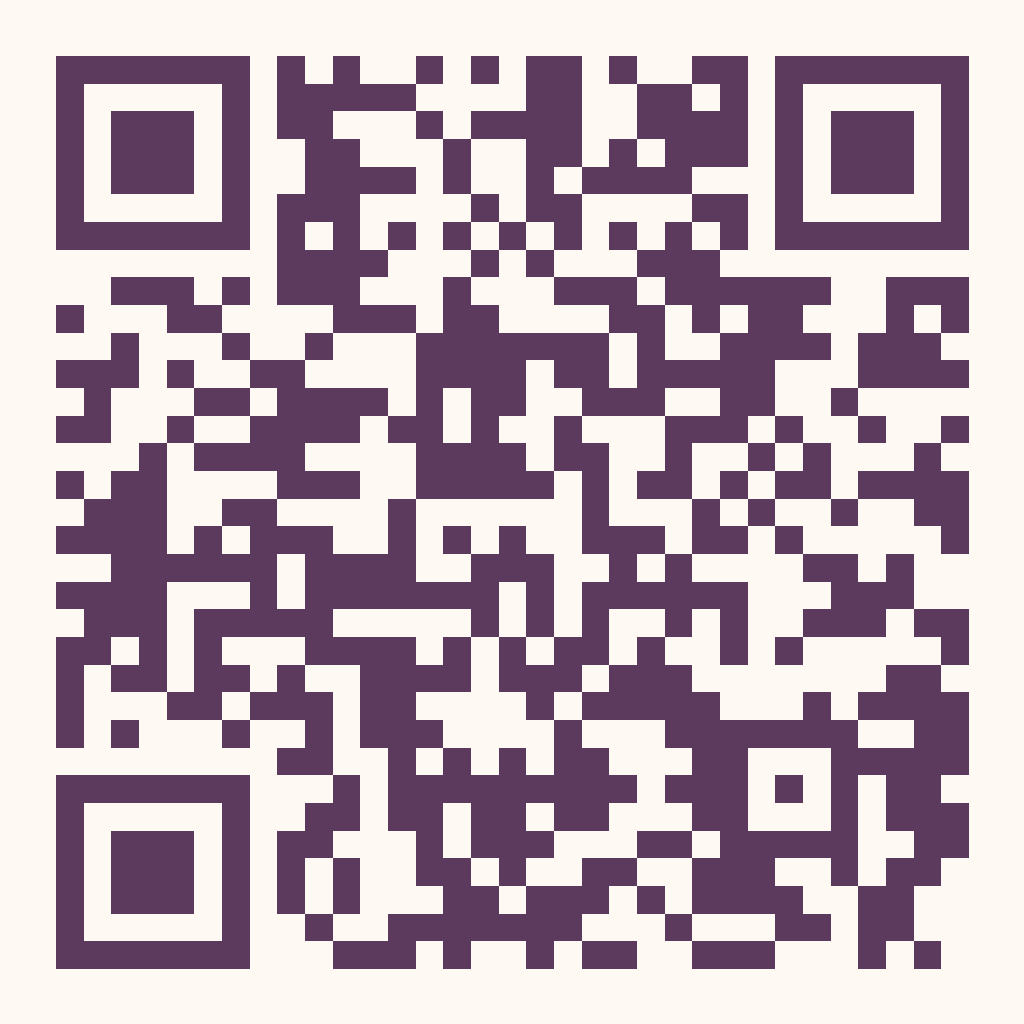
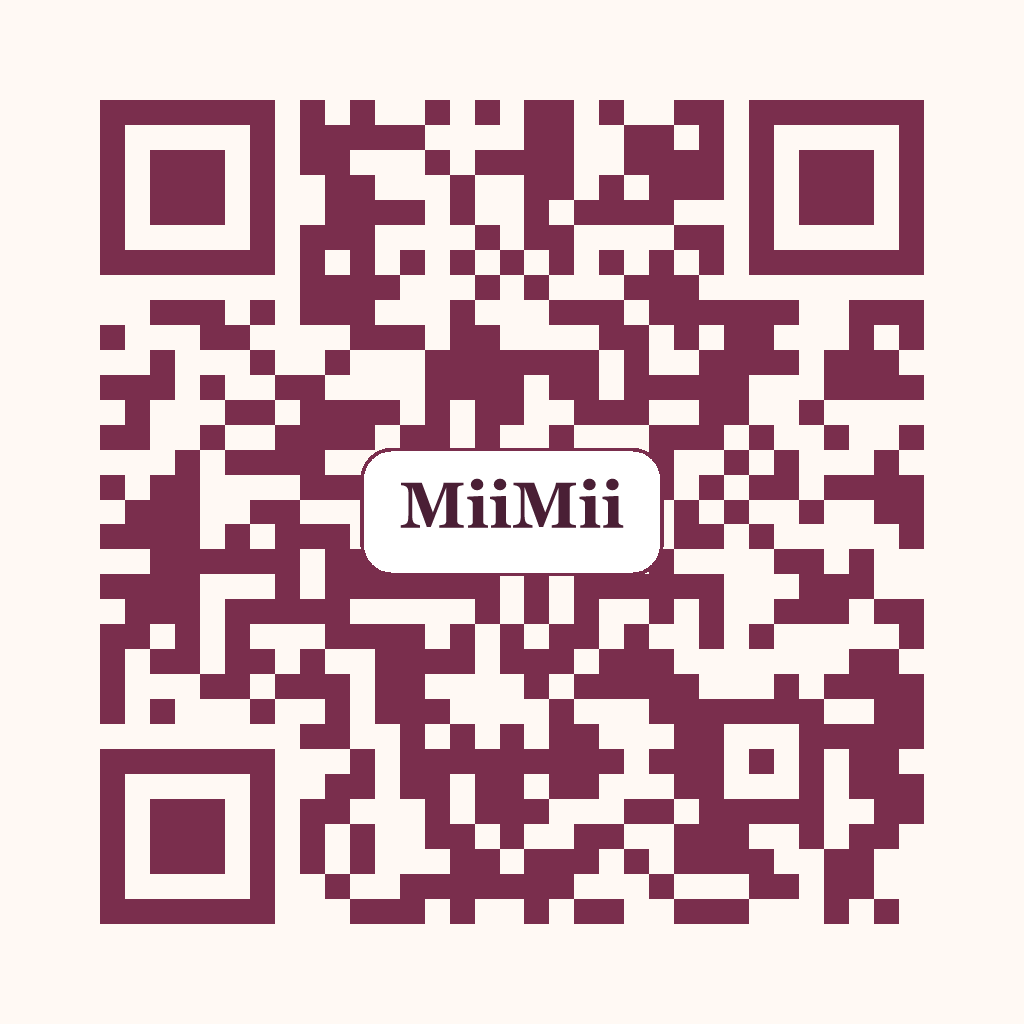
improve qr

diff --git a/docs/PROJECT_CONTEXT.md b/docs/PROJECT_CONTEXT.md
@@ -210,7 +210,7 @@ Suggested, not mandatory. Only create components with clear responsibility. If s
 - **Phase 8 (completed):** Finale, Footer, Easter egg, optional MusicToggle.
 - **Phase 9 (completed):** UI/UX and responsive audit with fixes.
 - **Phase 10 (completed):** Production build, preview, counter validation, 22 reasons verified.
-- **Phase 11 (completed):** Metadata + Open Graph configured; OG image SVG created; QR generation script used to generate `public/qr/qr.svg` and `public/qr/qr.png` for final URL https://shamii-woad.vercel.app/. Deployment performed by user (final URL provided).
+- **Phase 11 (completed):** Metadata + Open Graph configured; OG image SVG created; QR generation script used to generate `public/qr/qr.svg` and `public/qr/qr.png` for final URL https://shamii-woad.vercel.app/ with a centered "MiiMii" label (deep rose on warm cream). Deployment performed by user (final URL provided).
 - **Completed phases:** Phase 0, Phase 1, Phase 2, Phase 3, Phase 4, Phase 5, Phase 6, Phase 7, Phase 8, Phase 9, Phase 10. Phase 11 partially completed.
 - **Current phase:** Romantic redesign completed in code; deployment/QR preserved (final URL https://shamii-woad.vercel.app/).
 - **Known issues:** Content placeholders remain; no real-device visual verification; confetti untested on real devices.

diff --git a/docs/CHANGELOG.md b/docs/CHANGELOG.md
@@ -211,4 +211,15 @@ Chronological record of meaningful project changes. Dates recorded only when kno
 - **Files affected:** src/components/sections/EnvelopeGate.jsx, docs/CHANGELOG.md.
 - **Validation performed:** `npm run build` succeeded. No visual testing performed.
 
+## QR Code Customization - "MiiMii" Center Label
+
+- **Date:** 2026-10-20 (session).
+- **Main changes:**
+  - Updated `scripts/make-qr.mjs` to generate a romantic QR code (deep rose `#7A2E4D` modules on warm cream `#FFF9F4`) with a centered white rounded-rectangle label reading `MiiMii` in dark burgundy using embedded Cormorant Garamond.
+  - Regenerated `public/qr/qr.svg` and `public/qr/qr.png` (ECC level H, 1024px PNG, 4-module quiet zone) encoding exactly `https://shamii-woad.vercel.app/`.
+  - Added `@resvg/resvg-js` as a dev dependency to rasterize the SVG to PNG.
+- **Files affected:** scripts/make-qr.mjs, public/qr/qr.svg, public/qr/qr.png, package.json, package-lock.json, docs/*.
+- **Validation performed:** Decoded both PNG and SVG-derived PNG with jsQR -> `https://shamii-woad.vercel.app/`. `npm run build` succeeded.
+- **Outstanding issues:** Real-device scan not performed. Visual inspection of printed size not performed.
+
 ## (Future phases will be appended here.)

diff --git a/docs/DEPLOYMENT.md b/docs/DEPLOYMENT.md
@@ -47,7 +47,7 @@
 - Generate only after final URL is confirmed.
 - Script: `scripts/make-qr.mjs` using `qrcode` package.
 - Output: SVG and high-resolution PNG.
-- Style: plum (`#5C3A5E`) on cream (`#FFF9F4`), error correction level H, adequate quiet zone.
+- Style: deep rose/burgundy (`#7A2E4D`) on warm cream (`#FFF9F4`), centered white rounded-rectangle label reading `MiiMii` in dark burgundy, error correction level H, adequate quiet zone.
 - Verify readability at intended printed size (handmade card).
 - Test scanning on actual devices where possible; document actual status.
 
@@ -63,7 +63,7 @@
 - OG image: `public/og-image.svg` (convert to PNG 1200x630 if a raster OG image is preferred).
 - QR script ready: `scripts/make-qr.mjs` (requires confirmed final URL).
 - **Deployed.** Final URL: https://shamii-woad.vercel.app/
-- **QR generated.** Outputs: `public/qr/qr.svg`, `public/qr/qr.png` (plum on cream, ECC H, 1024px).
+- **QR generated.** Outputs: `public/qr/qr.svg`, `public/qr/qr.png` (deep rose on warm cream with centered `MiiMii` label, ECC H, 1024px).
 - QR scanning on a real device has **not** been performed (user to verify before printing).
 
 ## 10. Final Delivery Checklist:

diff --git a/docs/SYSTEM_DESIGN.md b/docs/SYSTEM_DESIGN.md
@@ -155,7 +155,7 @@ The journey is linear and scroll-driven; no navigation menu required. Anchor lin
 - Build: `npm run build` → `dist/`.
 - Deploy to Vercel (free). Document final URL.
 - Metadata/OG in `index.html`.
-- `scripts/make-qr.mjs` generates SVG + PNG (plum on cream, ECC H) from final URL.
+- `scripts/make-qr.mjs` generates SVG + PNG (deep rose `#7A2E4D` on warm cream `#FFF9F4`, centered `MiiMii` label, ECC H) from final URL.
 - Test QR on devices; document status.
 
 ## 16. Important Edge Cases
